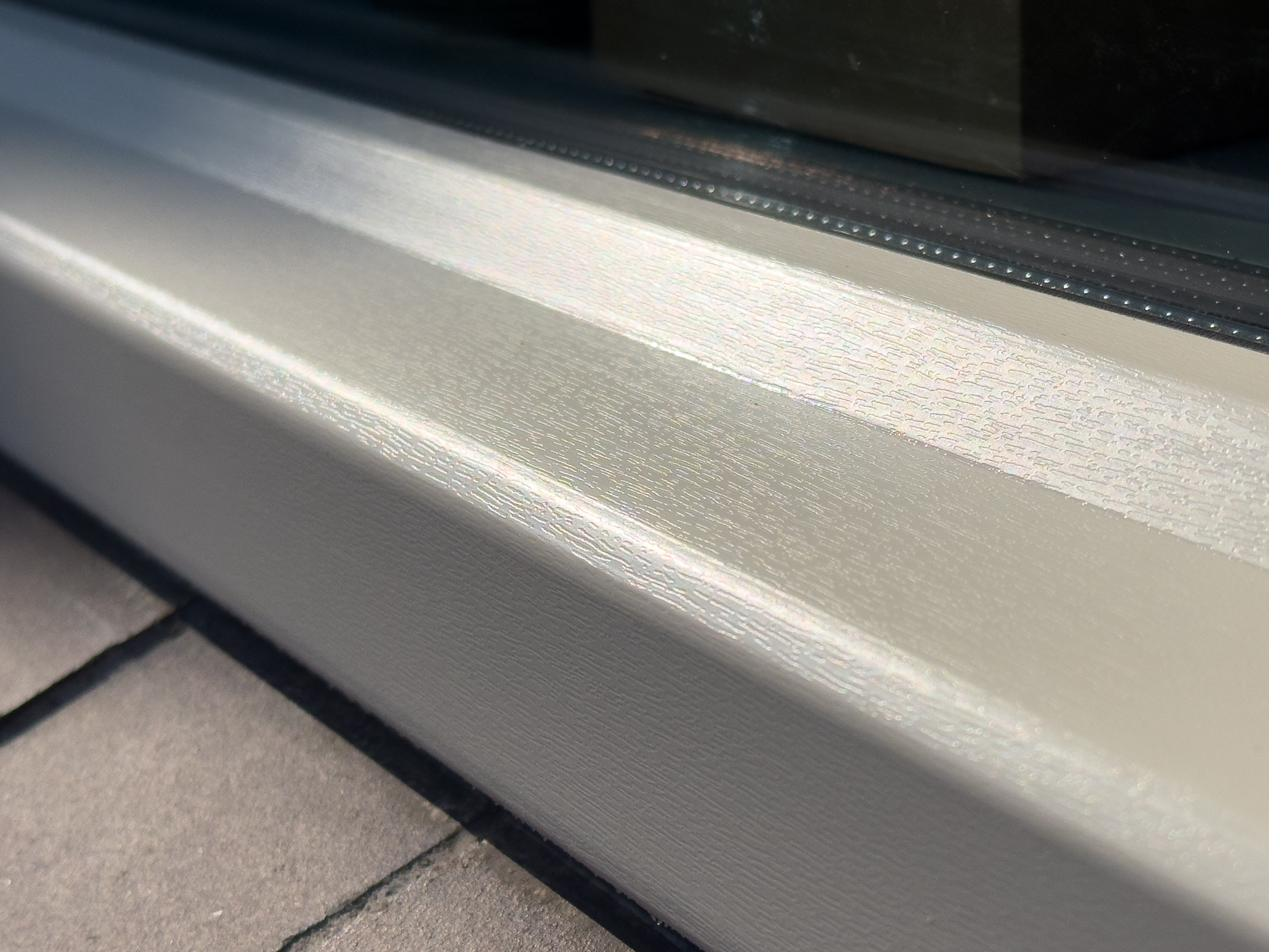
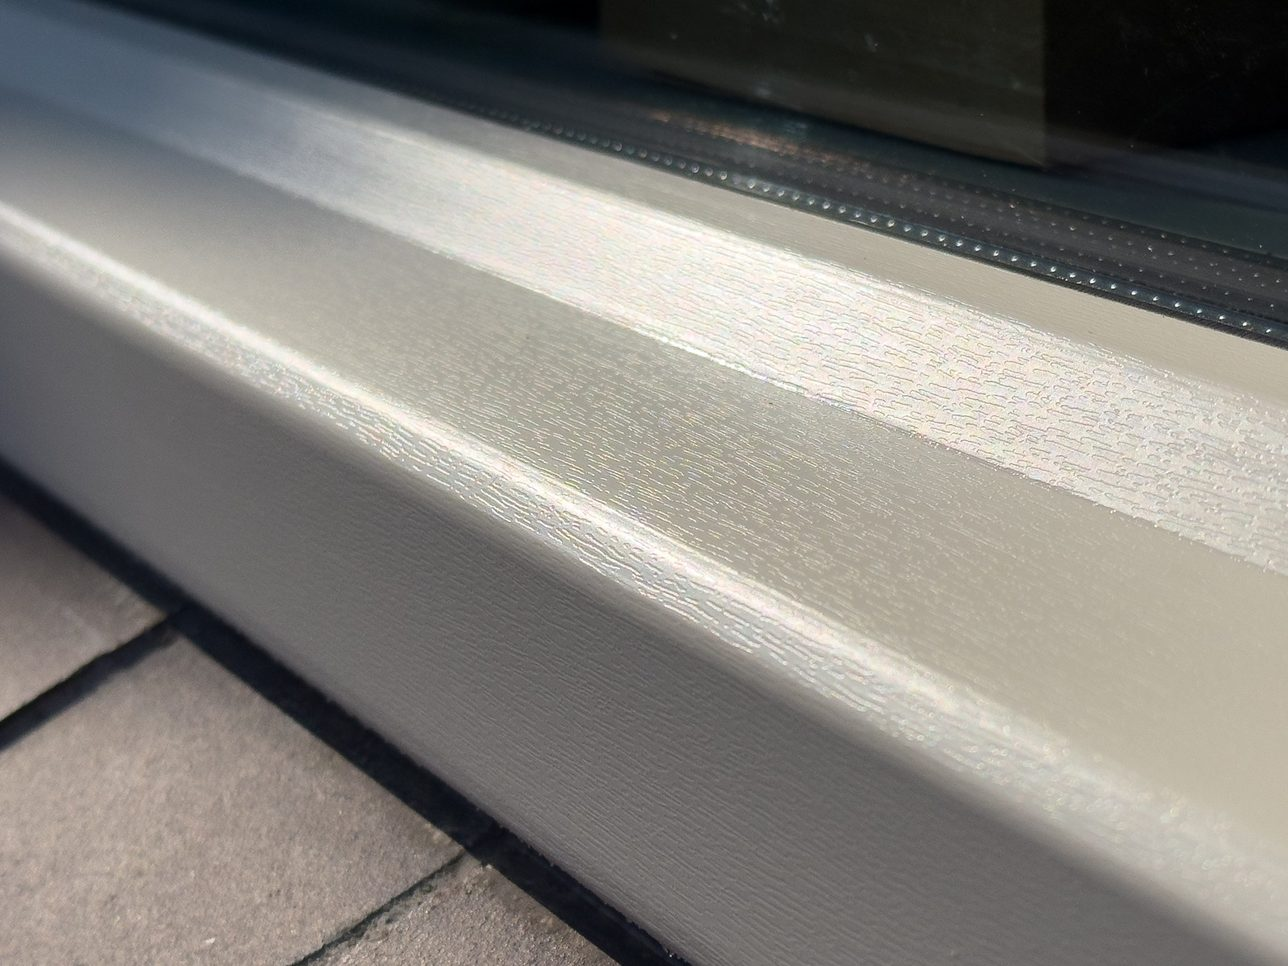
Praktijkvoorbeelden: voor en na op elkaar gelegd, half oud en half nieuw
De kaart van de kozijnhoek toont nu twee keer hetzelfde stuk kozijn: links
opengescheurd, rechts hersteld.

diff --git a/index.html b/index.html
@@ -337,12 +337,12 @@
       <p>Zes voorbeelden van kozijnen die met Renolit houtnerffolie zijn hersteld, in wit, crème, groen en antraciet. Ze zijn uitgevoerd door <a href="https://iwrap.nl/?utm_source=houtnerffolie&utm_medium=referral&utm_content=referenties" target="_blank" rel="noopener">iWrap</a>; klik op een voorbeeld voor meer op iwrap.nl.</p>
     </div>
     <div class="ref-grid stagger">
-      <a class="ref-card reveal" href="https://iwrap.nl/portfolio/herstelcremewittekozijnen/?utm_source=houtnerffolie&amp;utm_medium=referral&amp;utm_content=referenties" target="_blank" rel="noopener">
+      <a class="ref-card reveal" href="https://iwrap.nl/voorbeelden?utm_source=houtnerffolie&amp;utm_medium=referral&amp;utm_content=referenties" target="_blank" rel="noopener">
         <div class="ref-photo-split">
-          <div class="ref-half"><img src="images/kozijn-voor.jpg" alt="Kozijn vóór herstel, verweerde folie" width="1288" height="952" loading="lazy" decoding="async"><span class="lbl">Voor</span></div>
-          <div class="ref-half"><img src="images/kozijn-na.jpg" alt="Kozijn na herstel, nieuwe folie" width="1288" height="952" loading="lazy" decoding="async"><span class="lbl">Na</span></div>
+          <div class="ref-half"><img src="images/kozijn-voor.jpg" alt="Onderdorpel voor herstel: de folie is verweerd en gebarsten" width="1288" height="966" loading="lazy" decoding="async"><span class="lbl">Voor</span></div>
+          <div class="ref-half"><img src="images/kozijn-na.jpg" alt="Dezelfde onderdorpel na herstel: strak en egaal" width="1288" height="966" loading="lazy" decoding="async"><span class="lbl">Na</span></div>
         </div>
-        <div class="ref-body"><div class="loc">Herstel crèmewitte kozijnen</div><div class="desc">Volledige vernieuwing van verouderde, loslatende folie.</div></div>
+        <div class="ref-body"><div class="loc">Een verweerde onderdorpel</div><div class="desc">Twintig jaar zon: de folie was dof en gebarsten. Na het herstel weer strak en egaal.</div></div>
       </a>
       <a class="ref-card reveal" href="https://iwrap.nl/kunststof-kozijn-herstellen/?utm_source=houtnerffolie&amp;utm_medium=referral&amp;utm_content=referenties" target="_blank" rel="noopener">
         <div class="ref-photo-split">
@@ -359,11 +359,11 @@
         <div class="ref-body"><div class="loc">Antracietgrijs, RAL 7016</div><div class="desc">Een tussendorpel in een glazen deur: de folie was gebarsten en verweerd. Nu weer strak en egaal antraciet.</div></div>
       </a>
       <a class="ref-card reveal" href="https://iwrap.nl/kunststof-kozijn-herstellen/?utm_source=houtnerffolie&amp;utm_medium=referral&amp;utm_content=referenties" target="_blank" rel="noopener">
-        <div class="ref-photo-split">
-          <div class="ref-half"><img src="images/projecten/voor-vuile-kozijnhoek.webp" alt="Vuile en verweerde hoek van een kunststof kozijn" width="760" height="570" loading="lazy" decoding="async"><span class="lbl">Voor</span></div>
-          <div class="ref-half"><img src="images/projecten/na-herstelde-kozijnhoek.webp" alt="Dezelfde kozijnhoek na herstel, strak omgezet" width="760" height="570" loading="lazy" decoding="async"><span class="lbl">Na</span></div>
+        <div class="ref-photo-split zelfde">
+          <div class="ref-half"><img src="images/projecten/kozijnhoek-voor.webp" alt="Kozijnhoek voor herstel: de folie is opengescheurd" width="760" height="570" loading="lazy" decoding="async"><span class="lbl">Voor</span></div>
+          <div class="ref-half"><img src="images/projecten/kozijnhoek-na.webp" alt="Dezelfde kozijnhoek na herstel: strak en egaal, zonder naad" width="760" height="570" loading="lazy" decoding="async"><span class="lbl">Na</span></div>
         </div>
-        <div class="ref-body"><div class="loc">De hoek verraadt het vakwerk</div><div class="desc">In de hoek komen drie vlakken samen. Daar zie je of de folie netjes is omgezet of dat er een naad openblijft.</div></div>
+        <div class="ref-body"><div class="loc">De hoek verraadt het vakwerk</div><div class="desc">Hier was de folie in de hoek opengescheurd. In de hoek zie je of de nieuwe folie netjes is omgezet of dat er een naad openblijft.</div></div>
       </a>
       <a class="ref-card reveal" href="https://iwrap.nl/portfolio/dewissel/?utm_source=houtnerffolie&amp;utm_medium=referral&amp;utm_content=referenties" target="_blank" rel="noopener">
         <div class="ref-photo-vol"><img src="images/projecten/wissel.webp" alt="Appartementencomplex de Wissel met herstelde kozijnen" width="900" height="675" loading="lazy" decoding="async"></div>

diff --git a/css/style.css b/css/style.css
@@ -146,6 +146,13 @@
   .ref-card:hover .ref-photo-split img{transform:scale(1.06);}
   .ref-card:hover .ref-photo{background-position:8px 8px;}
   .ref-half{position:relative;}
+  /* Voor en na zijn op elkaar gelegd: links de linkerhelft van de voorfoto, rechts de
+     rechterhelft van de nafoto. Samen zie je één kozijn, half oud en half nieuw. */
+  .ref-half:first-child img{object-position:left center;}
+  .ref-half:last-child img{object-position:right center;}
+  .ref-half:last-child .lbl{left:auto;right:6px;}
+  /* Bij "zelfde" tonen beide helften hetzelfde stuk kozijn naast elkaar. */
+  .ref-photo-split.zelfde .ref-half:last-child img{object-position:left center;}
   .ref-half .lbl{position:absolute;left:6px;bottom:6px;font-size:.68rem;font-weight:700;background:rgba(24,24,26,.75);color:#fff;padding:2px 8px;border-radius:12px;}
   .ref-body{padding:16px 18px;}
   .ref-body .loc{font-size:.98rem;font-weight:600;}
